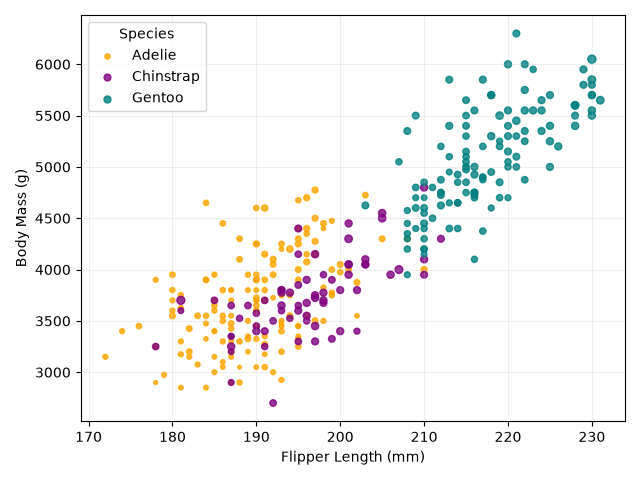
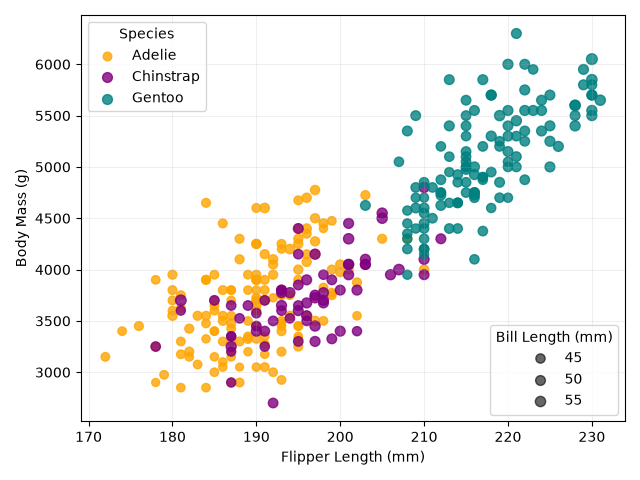
legend

diff --git a/code/mpl.py b/code/mpl.py
@@ -7,13 +7,17 @@ data = pd.read_csv("C:/Users/victo/OneDrive/Documents/GitHub/a2-DataVis-5ways/pe
 colors = {"Adelie": "orange", "Chinstrap": "purple", "Gentoo": "teal"}
 
 fig, ax = plt.subplots()
+scatter=None
 for species, i in data.groupby("species"):
-    ax.scatter(i["flipper_length_mm"], i["body_mass_g"], s=(i["bill_length_mm"]-25), 
+    scatter=ax.scatter(i["flipper_length_mm"], i["body_mass_g"], s=(i["bill_length_mm"]), 
                c=colors.get(species), alpha=0.8, label=species)
 ax.set_xlabel("Flipper Length (mm)")
 ax.set_ylabel("Body Mass (g)")
 ax.grid(alpha=0.2)
-ax.legend(title="Species")
+spe = ax.legend(title="Species", loc="upper left")
+ax.add_artist(spe)
+handles, labels = scatter.legend_elements(prop="sizes", alpha=0.6, num=4)
+sz = ax.legend(handles, labels, loc="lower right", title="Bill Length (mm)")
 plt.tight_layout()
 
 plt.show()
